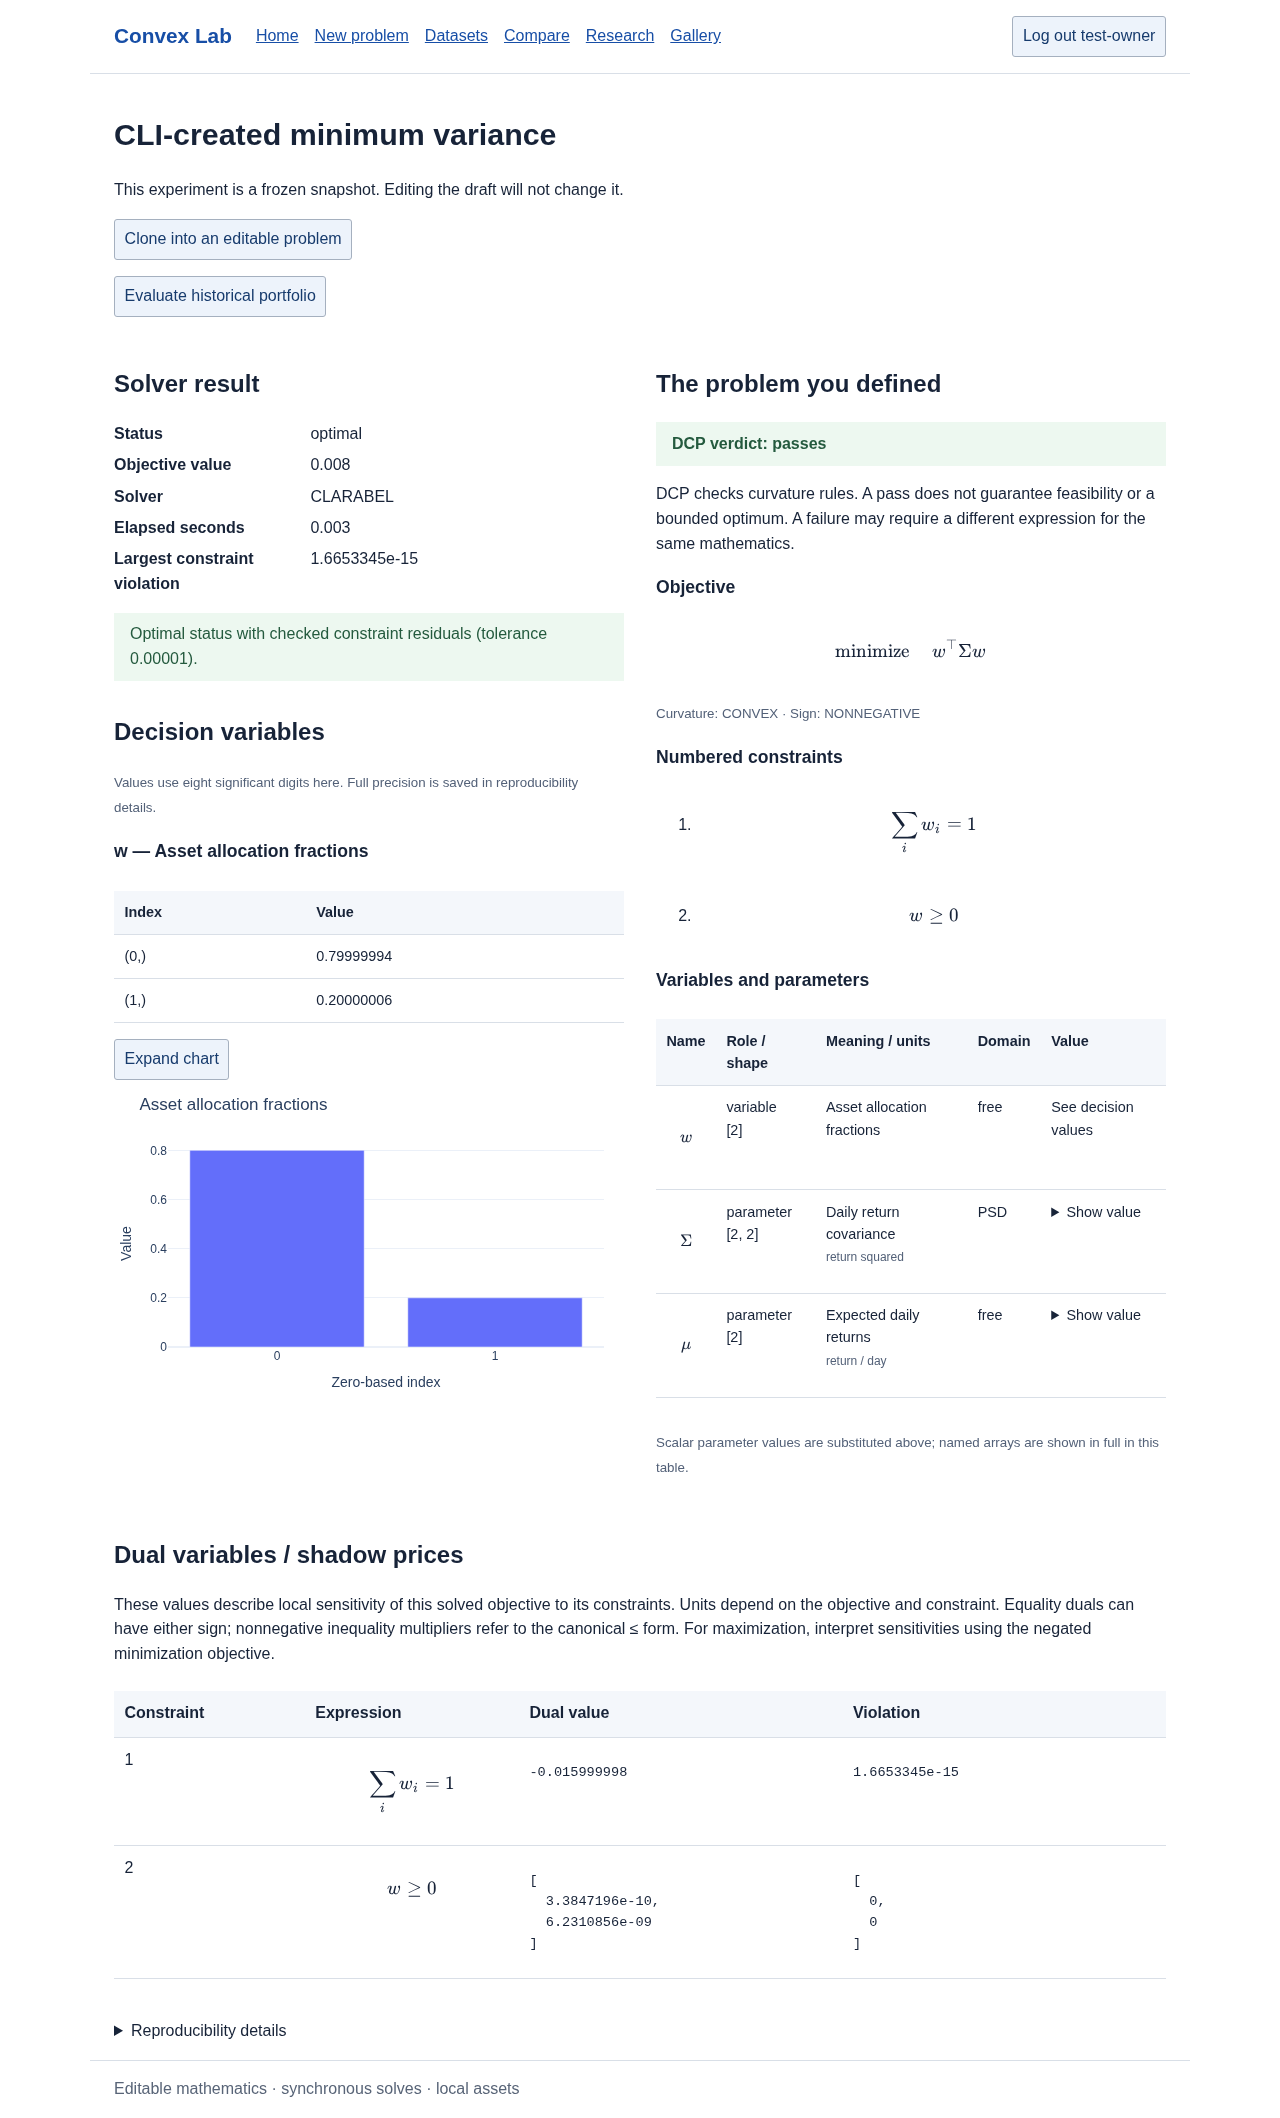
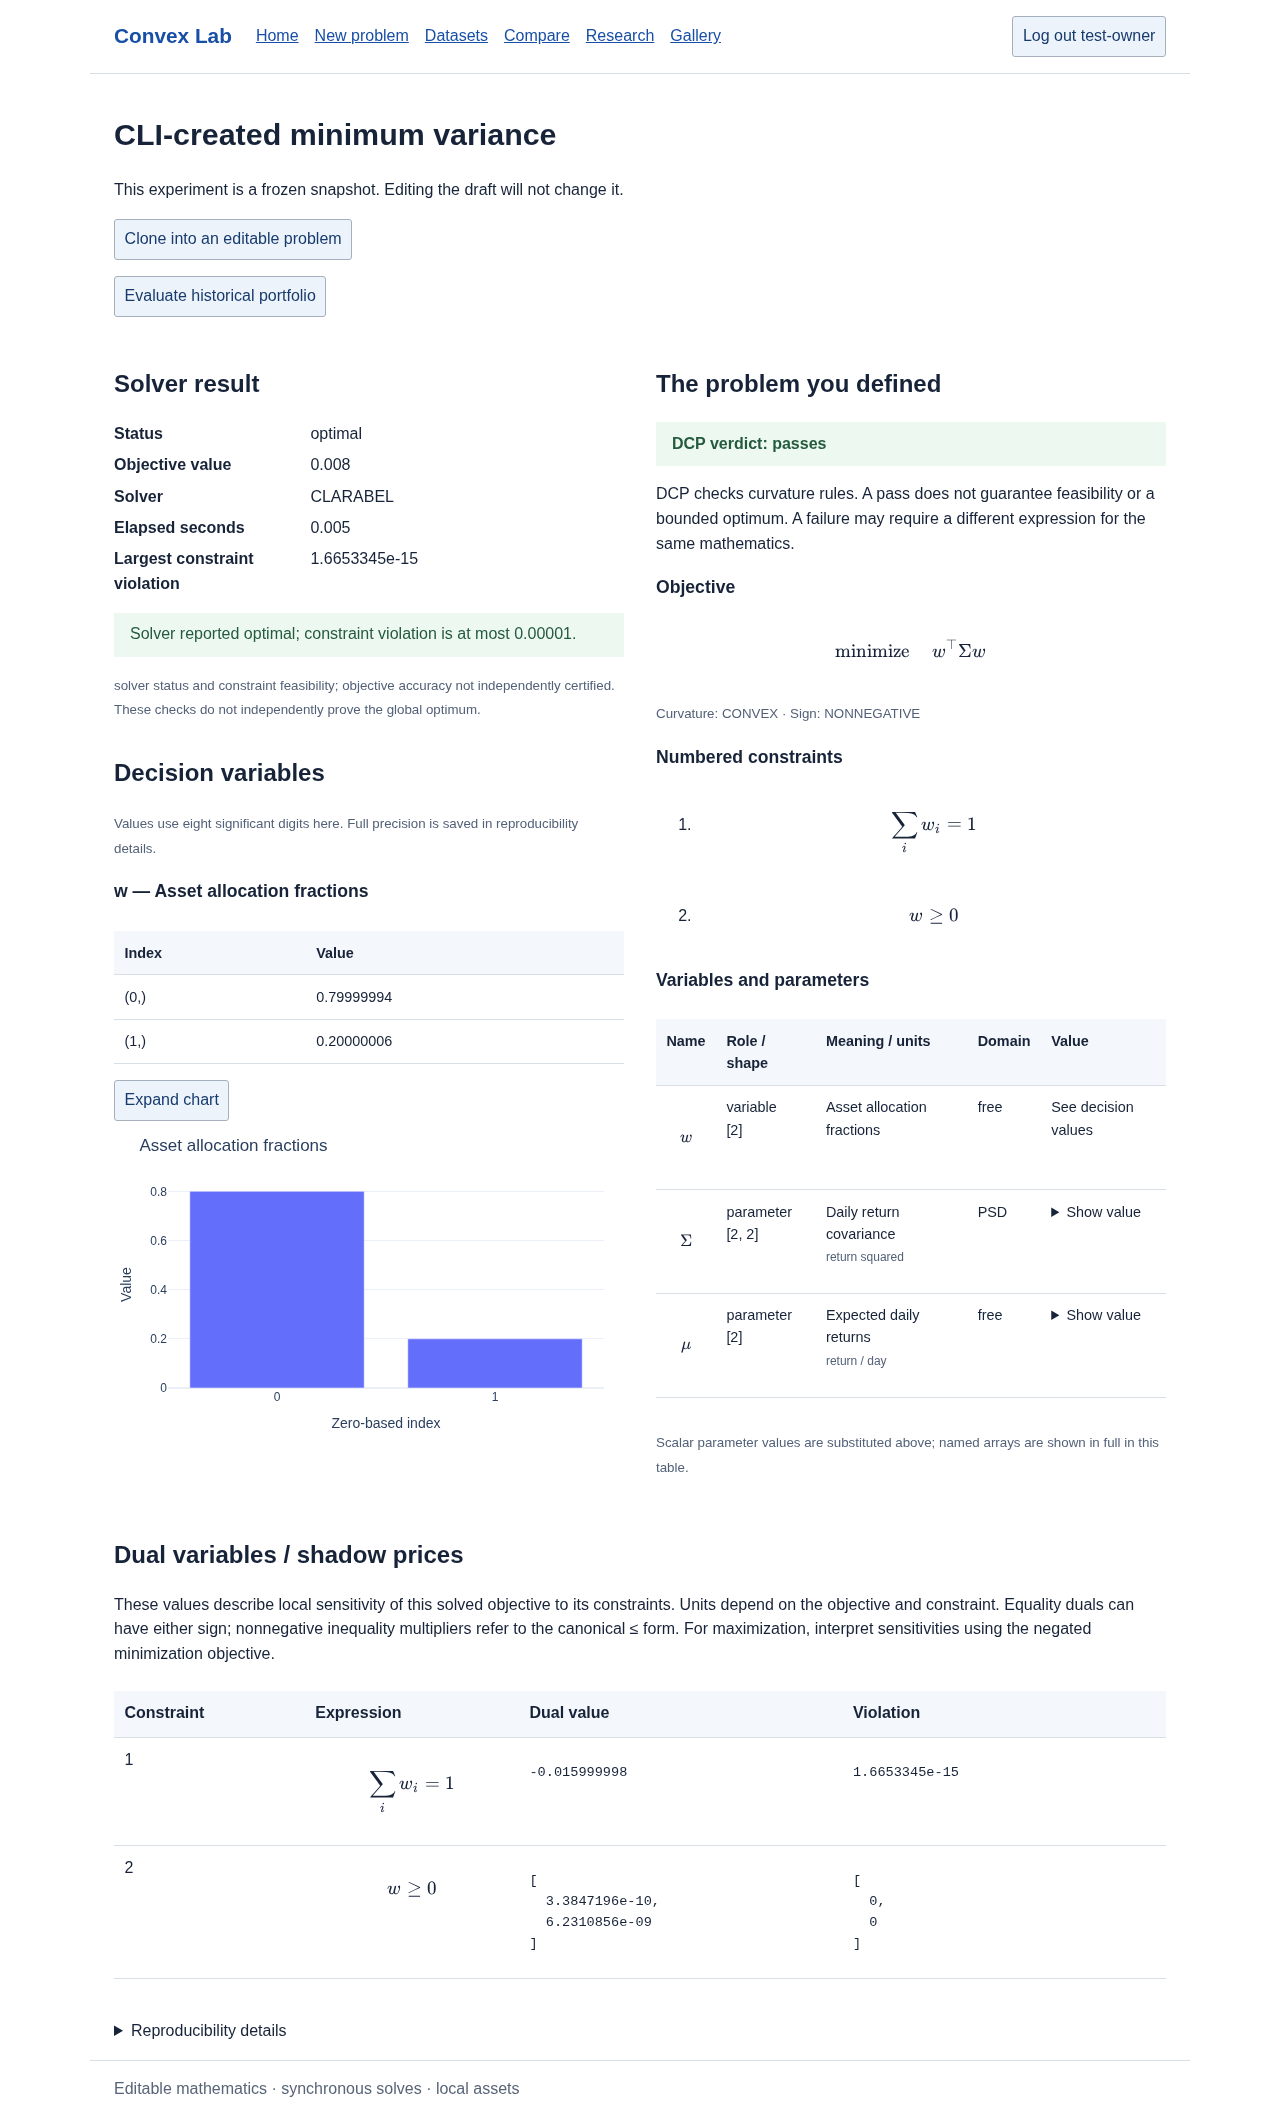
fix: check SCS objective gap and preserve PSD certification

diff --git a/lab/templates/lab/result.html b/lab/templates/lab/result.html
@@ -24,7 +24,7 @@
 <p>Status: {{ experiment.result.selection.primary_result.status }} · Value: {{ experiment.result.selection.primary_result.optimal_value|number_display }}</p>
 <pre>{{ experiment.result.selection.tie_attempts|json_display }}</pre></details>{% endif %}
 </section>{% endif %}
-{% if not point and experiment.result.verified_optimal %}<p><a class="button" href="{% url 'evaluate' experiment.pk %}">Evaluate historical portfolio</a></p>{% endif %}
+{% if not point and can_evaluate %}<p><a class="button" href="{% url 'evaluate' experiment.pk %}">Evaluate historical portfolio</a></p>{% endif %}
 {% if experiment.spec.data %}<p>Training dataset asset order: {{ experiment.spec.data.symbols|join:', ' }}. {% if estimates_edited %}Imported training parameters were edited.{% endif %}</p>{% endif %}
 <div class="result-grid">
 <div>
@@ -36,9 +36,12 @@
     <dt>Solver</dt><dd>{{ experiment.result.solver }}</dd>
     <dt>Elapsed seconds</dt><dd>{{ experiment.result.elapsed_seconds|floatformat:3 }}</dd>
     <dt>Largest constraint violation</dt><dd>{{ experiment.result.max_violation|number_display }}</dd>
+    {% if experiment.result.relative_duality_gap != None %}<dt>Relative primal/dual gap</dt><dd>{{ experiment.result.relative_duality_gap|number_display }}</dd>{% endif %}
   </dl>
-  {% if experiment.result.verified_optimal %}<p class="success">Optimal status with checked constraint residuals (tolerance 0.00001).</p>
-  {% else %}<p class="notice">This result is not a verified optimum. An infeasible problem has no feasible solution; an unbounded objective has no finite optimum. Inaccurate or time-limited results need review.</p>{% endif %}
+  {% if experiment.result.solver == 'SCS' and not experiment.result.accuracy_check %}<p class="notice">This older SCS result predates the objective-scale gap check. Re-solve before relying on its weights.</p>
+  {% elif experiment.result.verified_optimal %}<p class="success">Solver reported optimal; constraint violation is at most 0.00001.{% if experiment.result.solver == 'SCS' %} Its reported primal/dual gap is at most 1% of the objective scale.{% endif %}</p>
+  {% else %}<p class="notice">This solution did not pass the status, feasibility, and available accuracy checks. Inspect the warnings and try another solver or objective scaling.</p>{% endif %}
+  <p><small>{% if experiment.result.accuracy_check %}{{ experiment.result.accuracy_check }}. {% endif %}These checks do not independently prove the global optimum.</small></p>
   {% for warning in experiment.result.warnings %}<p class="notice">{{ warning }}</p>{% endfor %}
 </section>
 <section>

diff --git a/core/solve.py b/core/solve.py
@@ -15,6 +15,14 @@ from core.parser import ProblemError
 SOLVERS = ("CLARABEL", "OSQP", "SCS")
 
 
+def accepted_solution(result):
+    """Treat older SCS records without the objective-scale check as unreviewed."""
+    return bool(result.get("verified_optimal")) and (
+        result.get("solver") != "SCS" or result.get("relative_duality_gap") is not None
+        and result["relative_duality_gap"] <= 0.01
+    )
+
+
 def plain(value):
     if value is None:
         return None
@@ -46,6 +54,22 @@ def solve(built, solver="CLARABEL", seconds=2):
     has_solution = status in (cp.OPTIMAL, cp.OPTIMAL_INACCURATE)
     violations = [plain(c["value"].violation()) for c in built.constraints] if has_solution else []
     max_violation = max((float(np.max(v)) for v in violations if v is not None), default=0.0) if has_solution else None
+    # SCS uses absolute tolerances. A tiny portfolio variance can satisfy its
+    # default gap tolerance while having a large error relative to the objective.
+    # Report its primal/dual gap on the objective's own scale (Boyd §5.5).
+    stats = getattr(built.problem, "solver_stats", None)
+    extra = getattr(stats, "extra_stats", None)
+    info = extra.get("info", {}) if solver == "SCS" and isinstance(extra, dict) else {}
+    primal = info.get("pobj") if isinstance(info, dict) else None
+    dual = info.get("dobj") if isinstance(info, dict) else None
+    relative_gap = None
+    if primal is not None and dual is not None and np.isfinite([primal, dual]).all():
+        relative_gap = float(abs(primal - dual) / max(abs(primal), abs(dual), 1e-12))
+    gap_checked = solver != "SCS" or relative_gap is not None and relative_gap <= 0.01
+    accepted = status == cp.OPTIMAL and max_violation is not None and max_violation <= 1e-5 and gap_checked
+    warnings_list = [str(w.message) for w in captured]
+    if solver == "SCS" and status == cp.OPTIMAL and not gap_checked:
+        warnings_list.append("SCS objective-scale duality gap exceeds 1% or is unavailable. Try CLARABEL or rescale the objective.")
     return {
         "status": status, "optimal_value": plain(built.problem.value),
         "variables": {name: plain(var.value) if has_solution else None for name, var in built.variables.items()},
@@ -53,9 +77,12 @@ def solve(built, solver="CLARABEL", seconds=2):
                          "dual": plain(c["value"].dual_value) if has_solution else None,
                          "violation": violations[i] if has_solution else None} for i, c in enumerate(built.constraints)],
         "max_violation": max_violation,
-        "verified_optimal": status == cp.OPTIMAL and max_violation is not None and max_violation <= 1e-5,
+        # Legacy JSON key: accepted by these checks, not an independent proof.
+        "verified_optimal": accepted,
+        "relative_duality_gap": relative_gap,
+        "accuracy_check": "SCS objective-scale duality gap <= 1%" if solver == "SCS" else "solver status and constraint feasibility; objective accuracy not independently certified",
         "elapsed_seconds": time.perf_counter() - started,
         "solver": solver, "solver_options": options,
-        "warnings": [str(w.message) for w in captured],
+        "warnings": warnings_list,
         "runtime": {"python": platform.python_version(), "cvxpy": cp.__version__, "numpy": np.__version__},
     }

diff --git a/tests/test_core.py b/tests/test_core.py
@@ -8,7 +8,7 @@ import pytest
 
 from core.parser import Limits, ProblemError, build_problem
 from core.presets import PRESETS, get_preset
-from core.solve import solve
+from core.solve import accepted_solution, solve
 
 
 def scalar(expression="square(x)", constraints=None, sense="minimize"):
@@ -29,6 +29,46 @@ def test_min_variance_closed_form(solver):
     result = solve(build_problem(get_preset("min-variance")), solver)
     np.testing.assert_allclose(result["variables"]["w"], [.8, .2], atol=2e-5)
     assert result["optimal_value"] == pytest.approx(.008, abs=1e-7)
+
+
+def test_scs_tiny_objective_requires_objective_scale_gap_check():
+    # The 500-asset campaign case was feasible and called optimal by SCS,
+    # despite a large error relative to the known diagonal-QP optimum.
+    n = 500
+    variances = np.linspace(.00005, .0005, n)
+    spec = get_preset("min-variance")
+    spec["variables"][0]["shape"] = [n]
+    spec["parameters"][0]["value"] = np.diag(variances).tolist()
+    spec["parameters"][1]["value"] = np.zeros(n).tolist()
+    built = build_problem(spec, Limits(parameter_entries=500_000))
+    result = solve(built, "SCS")
+    expected = 1 / variances
+    expected /= expected.sum()
+    assert result["status"] == "optimal"
+    assert result["max_violation"] < 1e-5
+    assert result["relative_duality_gap"] > .01
+    assert not result["verified_optimal"]
+    assert result["optimal_value"] > expected @ np.diag(variances) @ expected * 1.2
+    reference = solve(build_problem(spec, Limits(parameter_entries=500_000)), "CLARABEL")
+    assert reference["verified_optimal"]
+    np.testing.assert_allclose(reference["variables"]["w"], expected, atol=1e-5)
+
+
+def test_legacy_scs_result_requires_new_accuracy_check():
+    assert not accepted_solution({"solver": "SCS", "verified_optimal": True})
+    assert accepted_solution({"solver": "CLARABEL", "verified_optimal": True})
+
+
+def test_psd_parameter_stays_certified_during_quadratic_canonicalization():
+    spec = get_preset("min-variance")
+    matrix = np.diag([.00005, .0002, .0005])
+    spec["variables"][0]["shape"] = [3]
+    spec["parameters"][0]["value"] = matrix.tolist()
+    spec["parameters"][1]["value"] = [0, 0, 0]
+    result = solve(build_problem(spec))
+    assert result["verified_optimal"]
+    np.testing.assert_allclose(result["variables"]["w"],
+                               (1 / np.diag(matrix)) / (1 / np.diag(matrix)).sum(), atol=1e-4)
 
 
 def test_cap_and_dual_sensitivity():

diff --git a/lab/views.py b/lab/views.py
@@ -14,7 +14,7 @@ from django.views.decorators.http import require_POST
 
 from core.parser import Limits, ProblemError, build_problem
 from core.presets import PRESETS, get_preset
-from core.solve import solve
+from core.solve import accepted_solution, solve
 from core.pareto import run_frontier
 from core.charts import frontier_charts
 from lab.forms import ProblemForm, initial_from_spec
@@ -150,6 +150,7 @@ def render_solution(request, experiment, point=None):
         {**evidence, 'latex': constraint['latex']}
         for evidence, constraint in zip(experiment.result['constraints'], preview['constraints'])]}
     return render(request, "lab/result.html", {"experiment": experiment, "preview": preview, "point": point,
+                                               "can_evaluate": accepted_solution(experiment.result),
                                                "variables": variables, "criterion_rows": criterion_rows, "estimates_edited": estimates_edited(experiment.spec)})
 
 
@@ -174,7 +175,7 @@ def choose(request, pk):
     except ValueError:
         return HttpResponse('Choose a valid point.', status=400)
     point = next((p for p in parent.result['points'] if p['id'] == index), None)
-    if point is None or not point['result']['verified_optimal']:
+    if point is None or not accepted_solution(point['result']):
         return HttpResponse('Choose a verified sampled point.', status=400)
     child = services.choose_point(request_scope(request), parent, index)
     return redirect('result', pk=child.pk)

diff --git a/lab/services.py b/lab/services.py
@@ -6,7 +6,7 @@ import hashlib
 import json
 from django.conf import settings
 from core.parser import Limits, ProblemError, build_problem
-from core.solve import solve
+from core.solve import accepted_solution, solve
 from core.pareto import run_frontier
 from core.data import content_digest, estimates_edited, problem_from_training
 from core.rolling import evaluate_portfolios
@@ -68,7 +68,7 @@ def solve_problem(scope, name, spec, solver="CLARABEL", options=None, draft=None
 
 def choose_point(scope, parent, index):
     point = next((p for p in parent.result.get("points", []) if p["id"] == index), None)
-    if parent.kind != "frontier" or point is None or not point["result"]["verified_optimal"]:
+    if parent.kind != "frontier" or point is None or not accepted_solution(point["result"]):
         raise ProblemError("Choose a verified sampled frontier point.")
     child, _ = Experiment.objects.get_or_create(parent=parent, point_index=index, kind="chosen", defaults={
         "owner": scope.owner, "workspace": scope.workspace, "problem": parent.problem,
@@ -80,7 +80,7 @@ def choose_point(scope, parent, index):
 
 def usable_variables(experiment):
     import numpy as np
-    if experiment.kind == "frontier" or not experiment.result.get("verified_optimal"):
+    if experiment.kind == "frontier" or not accepted_solution(experiment.result):
         return []
     return [n for n, v in experiment.result["variables"].items() if v is not None and np.asarray(v).ndim == 1]
 

diff --git a/core/parser.py b/core/parser.py
@@ -256,7 +256,15 @@ class Parser:
                     raise ProblemError("quad_form requires a vector and a square matrix of matching dimensions.")
                 if not x.is_constant() and not matrix.is_constant():
                     raise ProblemError("quad_form cannot optimize its vector and matrix together: the joint expression is not DCP. Fix one as a parameter.")
-            value = ATOMS[name](*(p.value for p in parts), **keywords)
+                if isinstance(matrix, cp.Parameter) and matrix.attributes["PSD"]:
+                    # CVXPY checked this parameter's PSD domain when its value was
+                    # assigned. Preserve that certificate during quad_form
+                    # canonicalization; a second sparse ARPACK check can fail to
+                    # converge on a valid, nearly singular covariance matrix.
+                    matrix = cp.psd_wrap(matrix)
+                value = cp.quad_form(x, matrix)
+            else:
+                value = ATOMS[name](*(p.value for p in parts), **keywords)
         precedence = 20 if name in ('quad_form','sum','max') else 40 if name in ('square','transpose','sum_squares') else 100
         if name in ('sum','max') and not parts[0].value.shape:
             precedence = parts[0].precedence  # Reduction of a scalar is identity.
